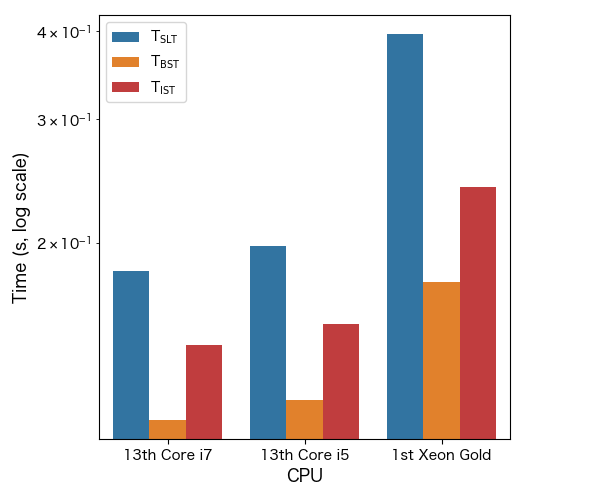
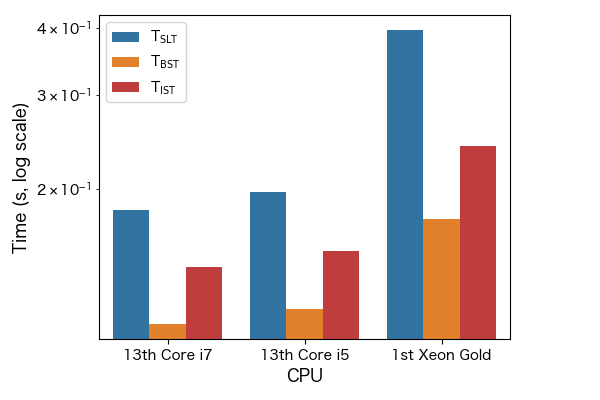
2/10

diff --git a/visualize_source/temp.py b/visualize_source/temp.py
@@ -1,7 +1,8 @@
+import os
+
+import matplotlib.pyplot as plt
 import pandas as pd
 import seaborn as sns
-import matplotlib.pyplot as plt
-import os
 from config import PLT_FONT
 
 plt.rcParams['font.family'] = PLT_FONT
@@ -40,7 +41,7 @@ def plot_benchmark_time(data, output_filename):
         palette = ["#1f77b4", "#ff7f0e", "#d62728"]  # 青・オレンジ・赤
     else:
         palette = ["#1f77b4", "#ff7f0e", "#2ca02c", "#d62728", "#9467bd", "#edc949"]
-    plt.figure(figsize=(6, 5))
+    plt.figure(figsize=(6, 4))
     ax = plt.gca()
     ax.grid(True, zorder=1)  # グリッドを zorder=1 に設定
     sns.barplot(x=df.columns[0],

diff --git a/visualize_source/temp2.py b/visualize_source/temp2.py
@@ -1,7 +1,8 @@
+import os
+
+import matplotlib.pyplot as plt
 import pandas as pd
 import seaborn as sns
-import matplotlib.pyplot as plt
-import os
 from config import PLT_FONT
 
 plt.rcParams['font.family'] = PLT_FONT
@@ -40,7 +41,7 @@ def plot_benchmark_time(data, output_filename):
         palette = ["#1f77b4", "#ff7f0e", "#d62728"]  # 青・オレンジ・赤
     else:
         palette = ["#1f77b4", "#ff7f0e", "#2ca02c", "#d62728", "#9467bd", "#edc949"]
-    plt.figure(figsize=(5, 4))
+    plt.figure(figsize=(5, 3))
     ax = plt.gca()
     ax.grid(True, zorder=1)  # グリッドを zorder=1 に設定
     sns.barplot(x=df.columns[0],
